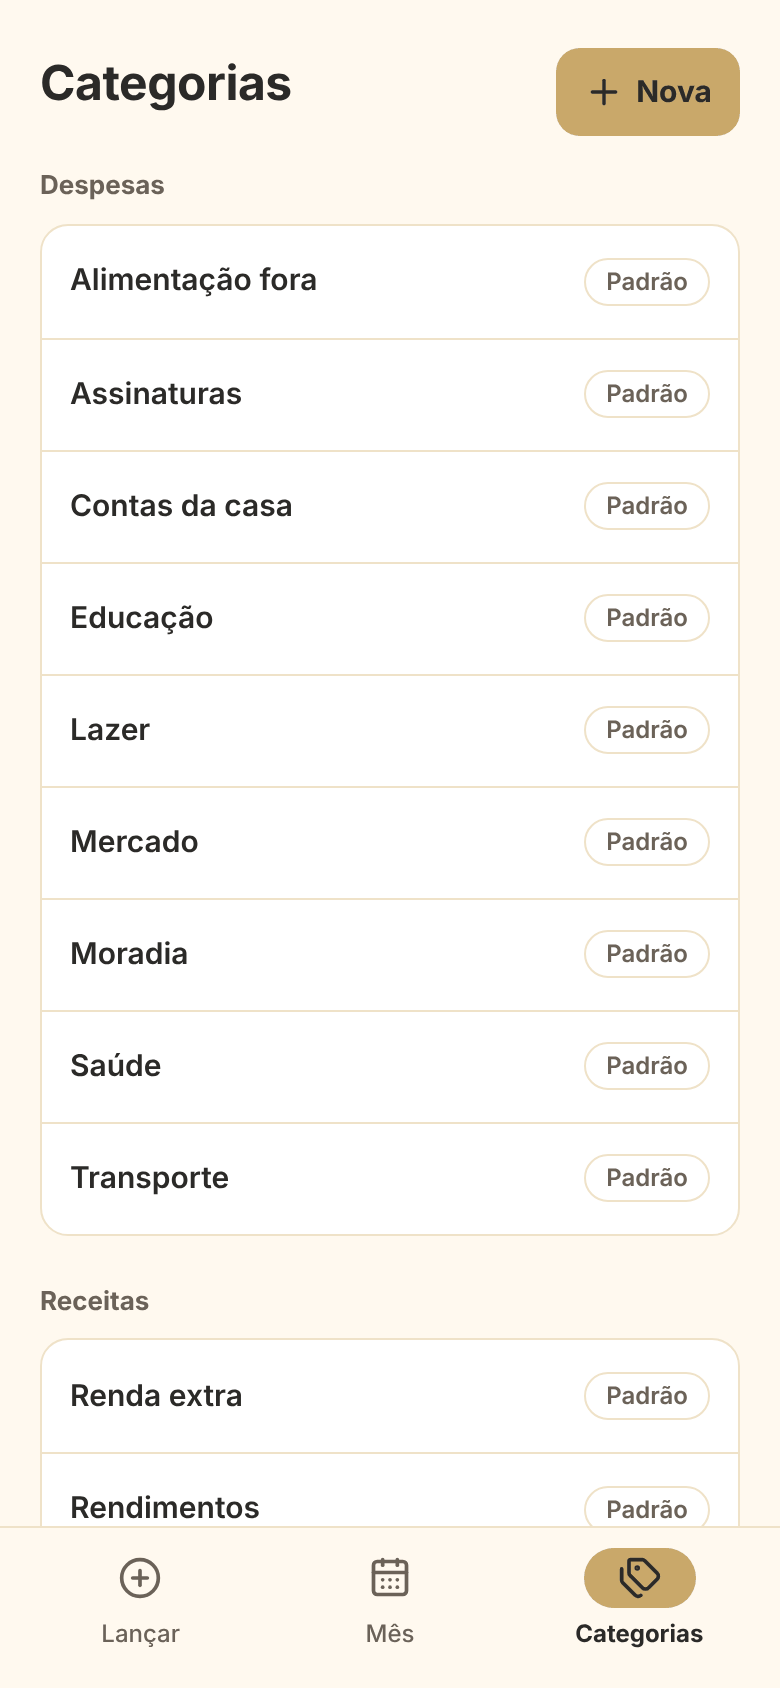
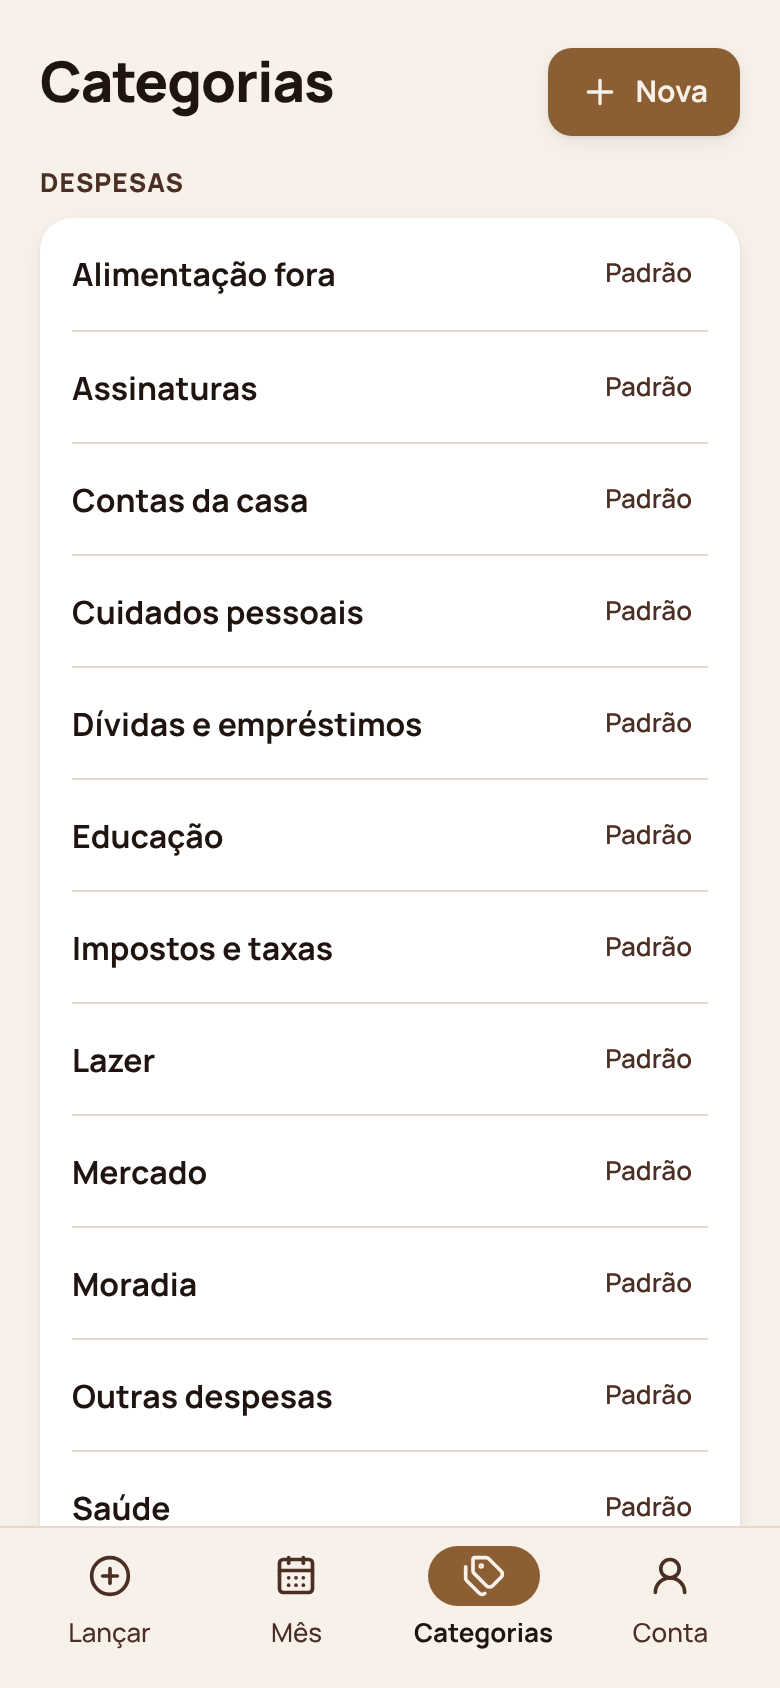
docs: atualizar as imagens do readme com o app redesenhado

diff --git a/README.md b/README.md
@@ -39,21 +39,25 @@ arquitetura é registrada em um [ADR](docs/adr).
     <td align="center"><img src="docs/imagens/lancar.png" width="190" alt="Tela Lançar: valor, categoria, data e descrição"></td>
     <td align="center"><img src="docs/imagens/mes.png" width="190" alt="Tela Mês: saldo do mês e resumo por categoria com barras"></td>
     <td align="center"><img src="docs/imagens/busca.png" width="190" alt="Tela Buscar: resultados da busca por uber, com filtro de despesas"></td>
-    <td align="center"><img src="docs/imagens/offline.png" width="190" alt="Lançamento sem internet: aviso de salvo no aparelho e de 1 lançamento aguardando envio"></td>
+    <td align="center"><img src="docs/imagens/editar.png" width="190" alt="Tela Editar lançamento: valor, categoria e botão Salvar alterações"></td>
     <td align="center"><img src="docs/imagens/categorias.png" width="190" alt="Tela Categorias: despesas e receitas"></td>
   </tr>
   <tr>
     <td align="center"><b>Lançar</b></td>
     <td align="center"><b>Mês</b></td>
     <td align="center"><b>Buscar</b></td>
-    <td align="center"><b>Sem internet</b></td>
+    <td align="center"><b>Editar</b></td>
     <td align="center"><b>Categorias</b></td>
   </tr>
 </table>
 
-<sub>Imagens com dados de exemplo.</sub>
+<p align="center">
+  <img src="docs/imagens/computador.png" width="780" alt="Tela Mês no computador: navegação lateral, saldo e resumo por categoria à esquerda e a lista de lançamentos à direita">
+</p>
 
-## O que ele faz hoje (v0.5.0)
+<sub>Imagens da demonstração, com dados de exemplo.</sub>
+
+## O que ele faz hoje (v0.6.0)
 
 - **Contas:** cada pessoa cria a própria conta (e-mail e senha), entra e vê **só os próprios
   dados**. Dá para trocar a senha e excluir a conta com tudo dentro. Sair da conta apaga os dados
@@ -63,12 +67,16 @@ arquitetura é registrada em um [ADR](docs/adr).
 - **Funciona sem internet:** sem conexão, o lançamento fica guardado no aparelho e é enviado
   depois, sem duplicar. No Android e no computador, o envio acontece até com o app fechado.
 - **Mês:** saldo, receitas e despesas, **resumo por categoria** com percentuais e a lista de
-  lançamentos agrupada por dia, com rolagem infinita.
+  lançamentos agrupada por dia, com rolagem infinita. Tocar num lançamento abre a edição, onde dá
+  para **corrigir ou excluir**.
 - **Busca:** por texto da descrição, tipo, categoria, faixa de valor e período, em lançamentos de
   qualquer época.
 - **Categorias:** padrão do sistema e personalizadas (criar, renomear, excluir).
 - **Instalável (PWA):** vai para a tela inicial do celular e abre como um app, com tema claro e
   escuro.
+- **Celular e computador:** no computador, navegação lateral e o Mês em duas colunas, com o mesmo
+  código. Identidade visual própria (paleta Capital Cacau, fonte Manrope) e acessibilidade
+  conferida com o axe em todas as telas, contraste AA e navegação completa pelo teclado.
 
 > O app ainda é de **desenvolvimento**: a hospedagem na internet (HTTPS, backups, limite de
 > requisições) é o M6. Por enquanto rode só no seu computador e na rede de casa. Veja
@@ -90,7 +98,7 @@ arquitetura é registrada em um [ADR](docs/adr).
 - **Schema versionado:** só muda por migration Flyway; diagrama editável no
   [dbdiagram.io](docs/architecture/schema.dbml).
 - **Processo:** GitHub Flow, Conventional Commits, CI obrigatório na `main`, milestones por
-  versão, [CHANGELOG](CHANGELOG.md) e 19 [ADRs](docs/adr) explicando o porquê de cada decisão.
+  versão, [CHANGELOG](CHANGELOG.md) e 30 [ADRs](docs/adr) explicando o porquê de cada decisão.
 
 ## Arquitetura
 
@@ -130,9 +138,10 @@ TypeScript** que só consome essa API. Detalhes em
 | M3: PWA mínimo | v0.3.0 | ✅ Concluído |
 | M4: Consultas e offline | v0.4.0 | ✅ Concluído |
 | M5: Segurança e multiusuário (cadastro, login, dados por usuário) | v0.5.0 | ✅ Concluído |
+| M5.5: Acabamento (identidade visual, telas, computador, demonstração) | v0.6.0 | ✅ Concluído |
 | M6: Produção (Docker, deploy, backups, monitoramento) | v1.0.0 | Próximo |
 
-Depois do M5 vem uma etapa de acabamento visual. Detalhes no [roadmap](docs/roadmap.md) e nos
+Detalhes no [roadmap](docs/roadmap.md) e nos
 [milestones](https://github.com/IgorPacheco1/Easy-finance/milestones).
 
 **Fora do escopo por enquanto:** microsserviços, multi-moeda, integração bancária (Open Finance)

diff --git a/backend/README.md b/backend/README.md
@@ -106,4 +106,4 @@ São três camadas, todas rodando no `./mvnw -B verify` e no CI:
 Não há H2 nem banco "parecido": os testes de integração usam a mesma versão do PostgreSQL do
 ambiente local, e as migrations são aplicadas do zero. O relatório de cobertura (JaCoCo) fica em
 `target/site/jacoco/index.html`. O `verify` falha se a cobertura do projeto cair abaixo de **95% das
-linhas** ou **85% dos branches** (#69); o relatório continua sendo gerado e mostra o que ficou sem teste.
+linhas** ou **85% dos branches** (#168); o relatório continua sendo gerado e mostra o que ficou sem teste.
